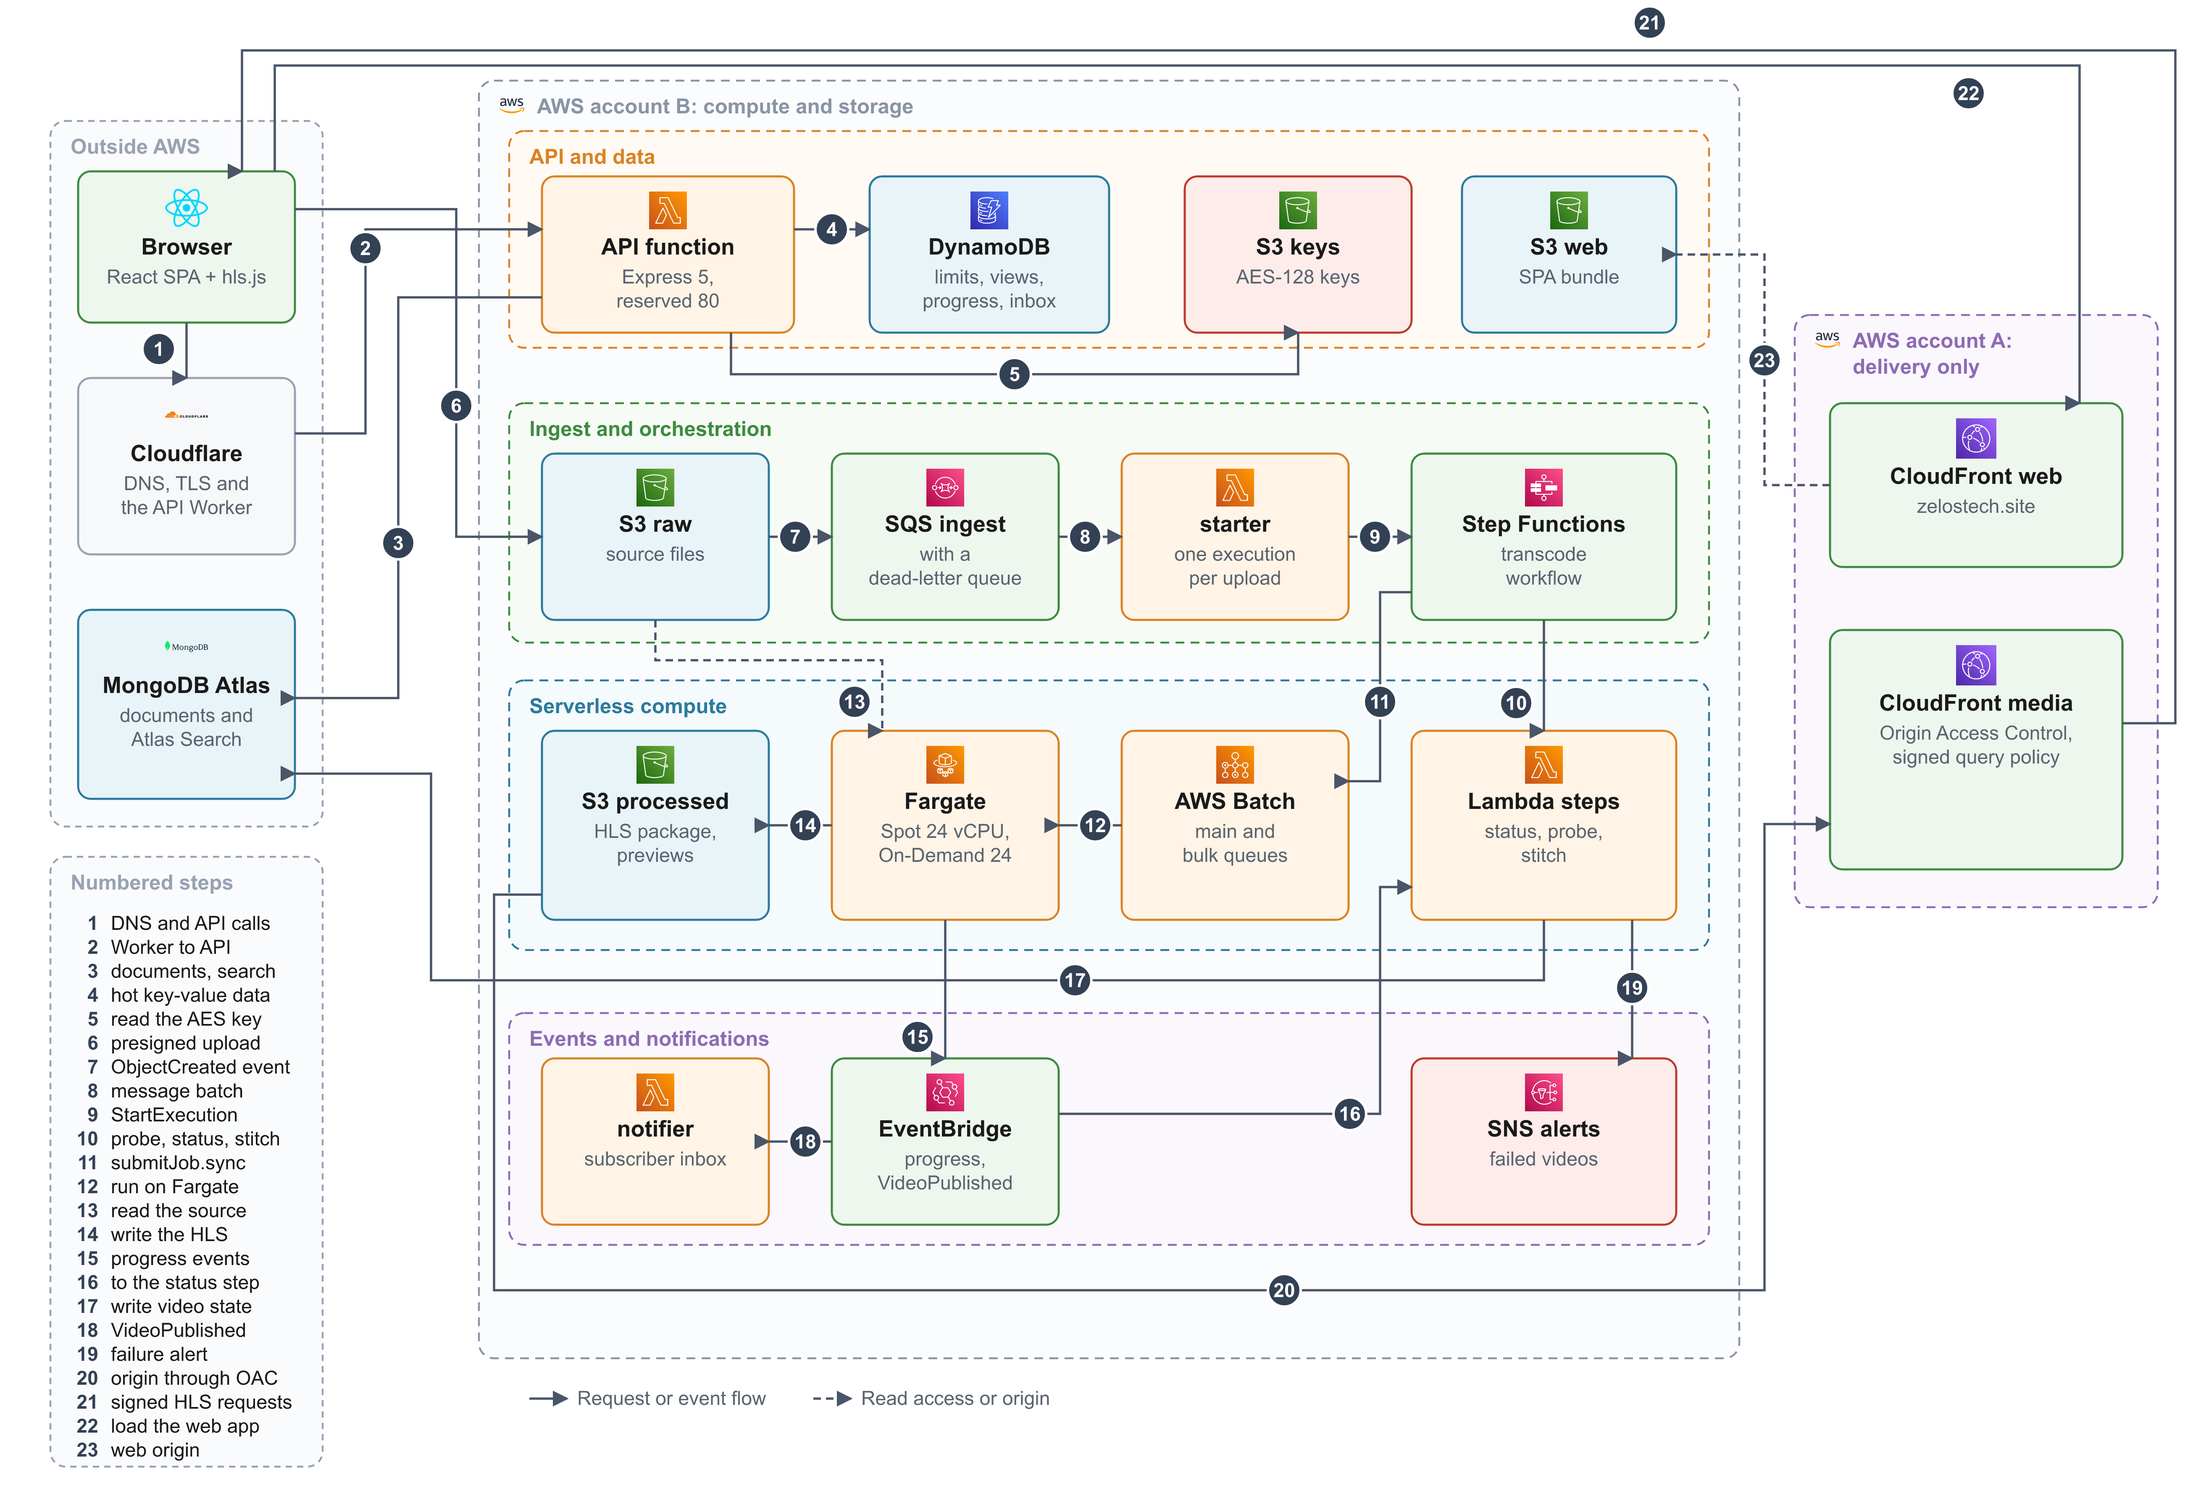
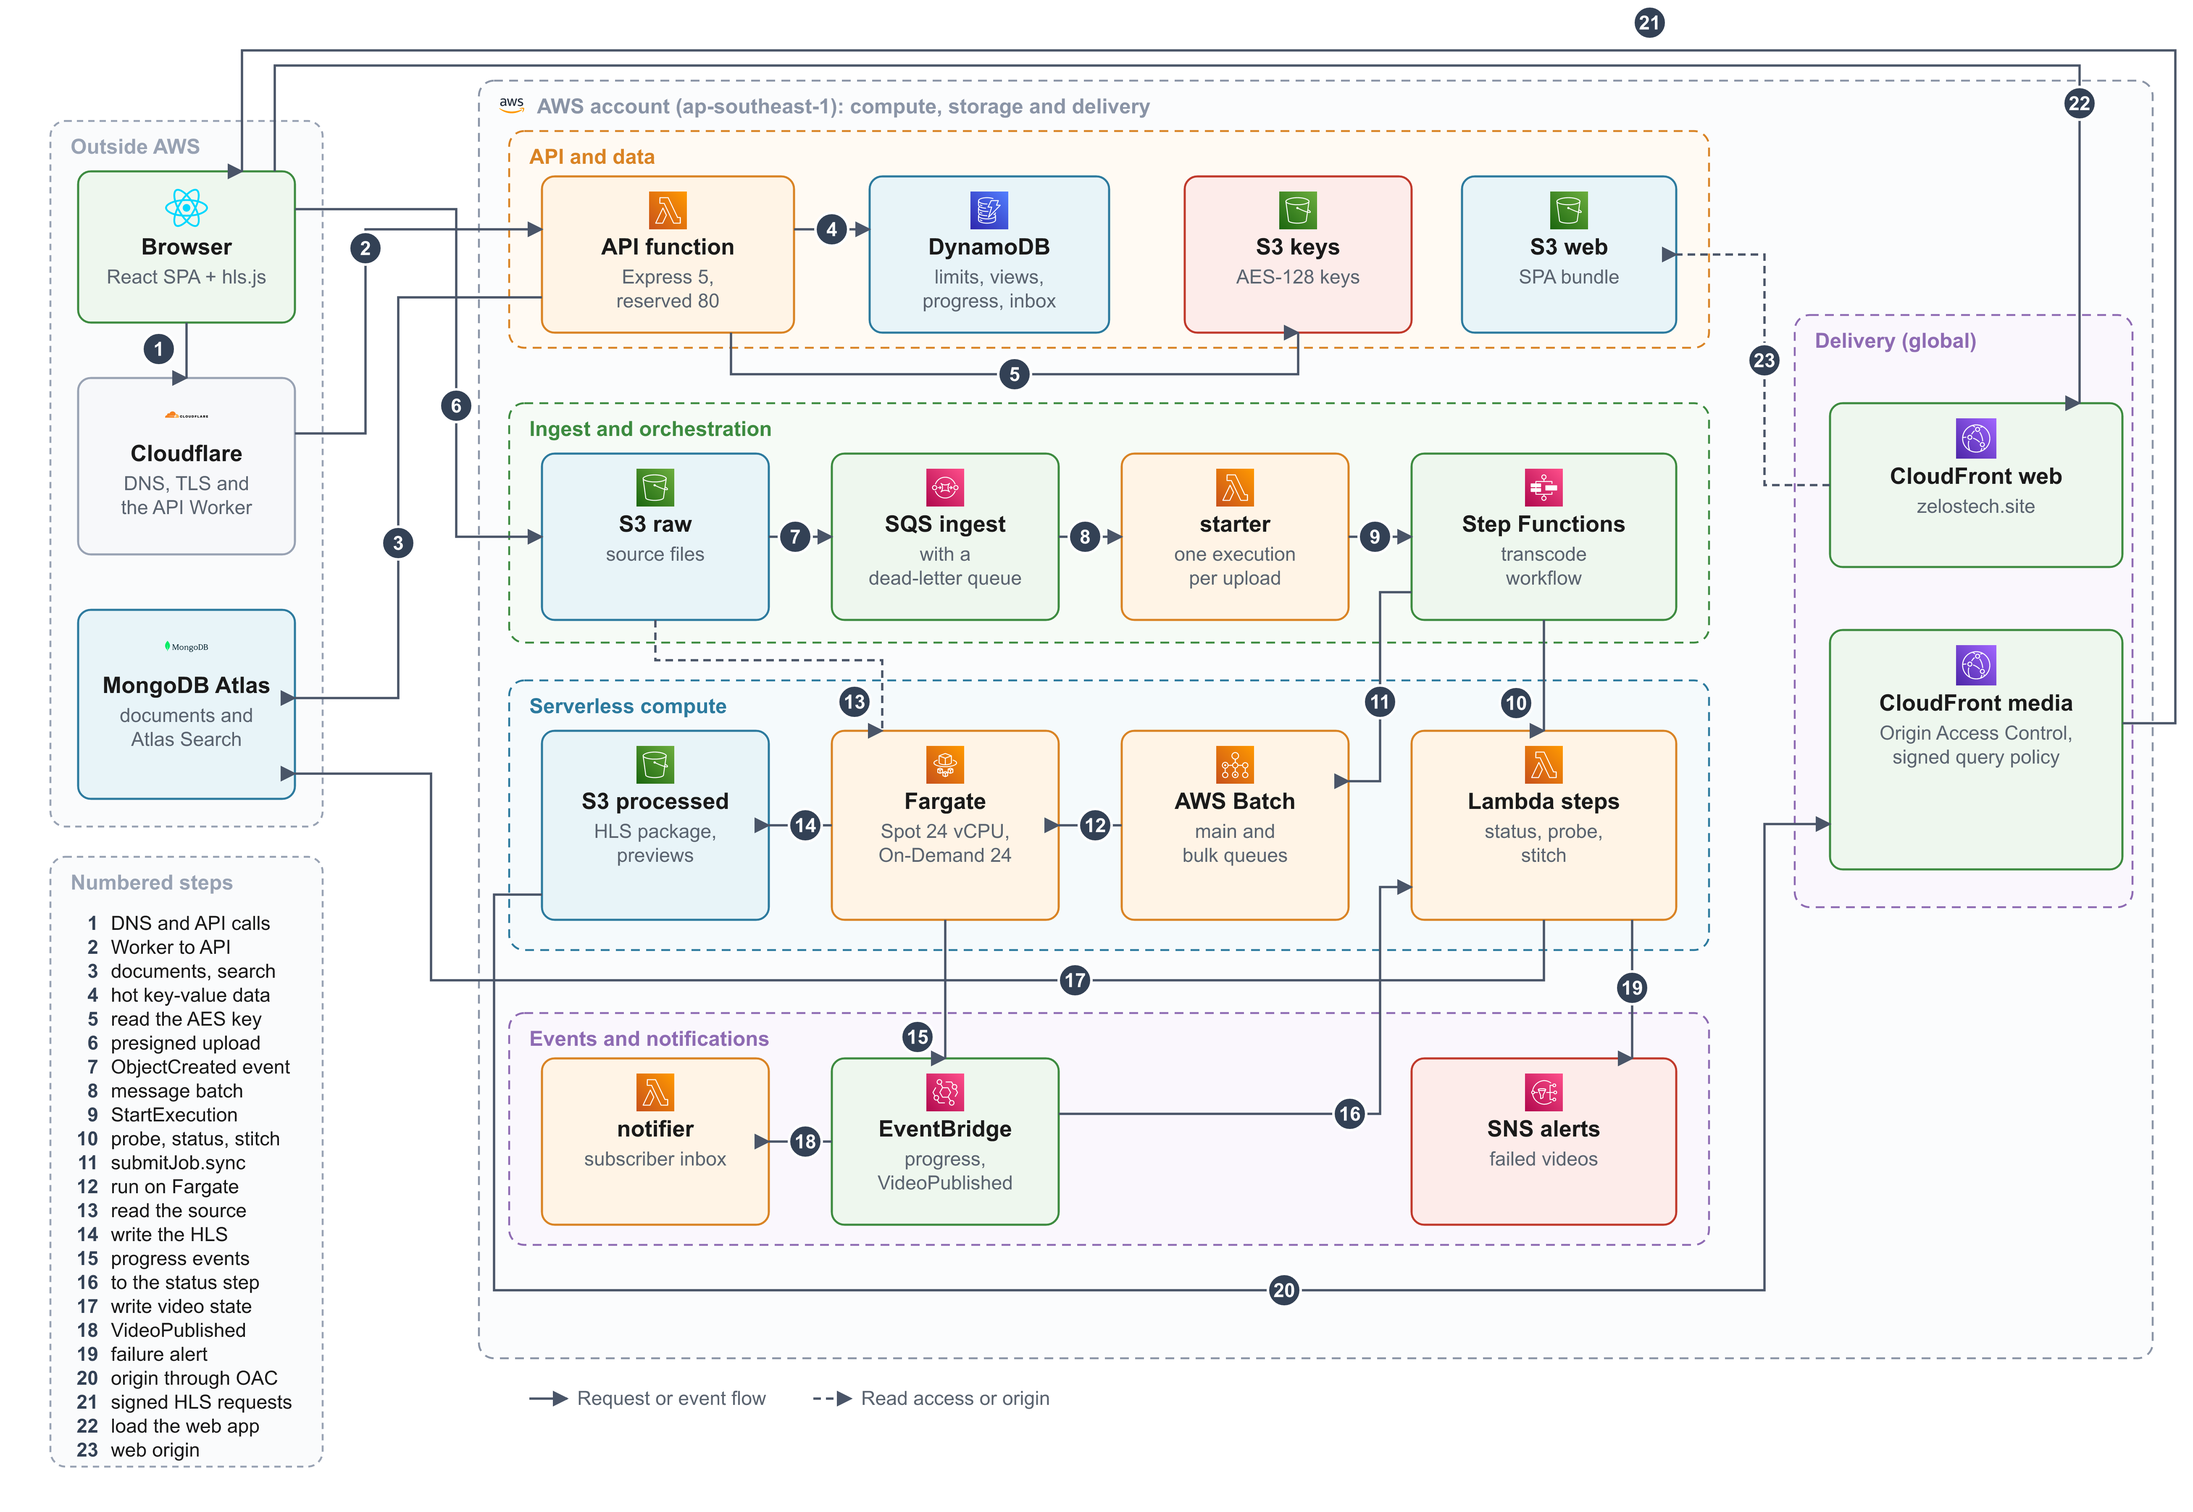
docs(report): describe the single AWS account after the CloudFront move

diff --git a/report/chapters/chap7.tex b/report/chapters/chap7.tex
@@ -24,7 +24,7 @@ of the report that holds the evidence. All five were reached on the production s
 1. Web platform & Users register with a verified e-mail address or Google, upload files of up to 20~GB straight to Amazon S3 and watch every video at up to six quality levels. Each video is public, unlisted, private, protected by a password or reserved for members. Channels, subscriptions, comments, playlists, memberships, a search that ignores diacritics and a staff console complete the platform. & Sections~\ref{sec:interface-design}, \ref{sec:content-protection}, \ref{sec:ui-showcase} \\
 2. Event-driven pipeline & The creation of the source object alone starts a Step Functions execution, named after the video and its upload version so that a duplicate event never starts a second one. The execution ends with an HLS package encrypted with AES-128 and served through CloudFront with a signed policy. Every measured upload that was accepted reached \status{ready}. & Sections~\ref{sec:workflow-design}, \ref{sec:media-design}, \ref{sec:pipeline-evaluation} \\
 3. On-demand containers & Every FFmpeg job runs in a Fargate task that exists only while the job runs; with nothing to process, both compute environments hold zero vCPUs. Spot capacity is used first and On-Demand as overflow, which a burst of 100 uploads used. A four-hour video was ready in 38.3~minutes. & Sections~\ref{sec:compute-design}, \ref{sec:chunked-evaluation}, \ref{sec:burst-evaluation} \\
-4. Infrastructure as Code and CI & Eleven Terraform modules build three environments across two AWS accounts and Cloudflare. Two workflows lint, type-check, test, scan for secrets and vulnerable dependencies, and run FFmpeg in the image on every change; 294 unit tests, 13 image checks and 27 end-to-end tests pass. & Sections~\ref{sec:iac}, \ref{sec:cicd}, \ref{sec:testing} \\
+4. Infrastructure as Code and CI & Eleven Terraform modules build three environments on AWS and Cloudflare. Two workflows lint, type-check, test, scan for secrets and vulnerable dependencies, and run FFmpeg in the image on every change; 294 unit tests, 13 image checks and 27 end-to-end tests pass. & Sections~\ref{sec:iac}, \ref{sec:cicd}, \ref{sec:testing} \\
 5. Empirical evaluation & Playback start, playback under limited bandwidth, declared against delivered bit rate, transcoding time from a 36-second clip to a four-hour video, 100 simultaneous uploads, API load and monthly cost were measured on production. Nine of the ten non-functional requirements are met and the tenth at its median. & Chapter~\ref{chap:evaluation}, Table~\ref{tab:nfr-evidence} \\
 \bottomrule
 \end{tabularx}
@@ -81,10 +81,11 @@ calibration on this platform's content. The console measures the error rates fro
 but too few decisions exist yet for a rate to mean anything, so this report makes no claim about the
 accuracy of the screening.
 
-\textbf{Operation.} The CDN distributions live in a second AWS account, because the main account may
-not create them, which splits the infrastructure across two sets of credentials. Deployment is run by
-the operator rather than by the pipeline, so a change reaches production only as often as someone
-runs the steps.
+\textbf{Operation.} Deployment is run by the operator rather than by the pipeline, so a change
+reaches production only as often as someone runs the steps, and a step left out is noticed only by
+the checks that follow it. The whole platform also runs in a single AWS region. CloudFront serves the
+web application from the edge, but an outage of that region stops uploads, processing and playback
+alike, because every playback grant and key comes from the API in that region.
 
 \section{Future Work}
 \label{sec:future-work}
@@ -111,7 +112,7 @@ the limit of 100 operations per second.
 The fifth is calibrating the screening from evidence. The console already records the reason codes of
 reversed decisions and an unbiased audit sample; after a few hundred decisions, the thresholds and the
 label policy can be adjusted and the effect measured again. Further ahead, a deployment workflow that
-assumes a role in each account would make releases routine, and GPU-backed serverless
+assumes a role in the account would make releases routine, and GPU-backed serverless
 encoding~\cite{gpuserverless2024} and a codec such as HEVC or AV1 next to H.264 would raise throughput
 and reduce bandwidth.
 
@@ -131,7 +132,7 @@ describe them.
 \toprule
 \textbf{MEMBER} & \textbf{STUDENT ID} & \textbf{RESPONSIBILITIES} \\
 \midrule
-Dinh Quoc Cuong (team leader) & 523H0008 & Overall architecture; the transcoding workflow, the container image and the chunked path; the infrastructure in Terraform across both AWS accounts and Cloudflare; the CI pipeline and the security scans; the measurements and the evaluation; Chapters~\ref{chap:design} to \ref{chap:evaluation} of the report \\
+Dinh Quoc Cuong (team leader) & 523H0008 & Overall architecture; the transcoding workflow, the container image and the chunked path; the infrastructure in Terraform on AWS and Cloudflare; the CI pipeline and the security scans; the measurements and the evaluation; Chapters~\ref{chap:design} to \ref{chap:evaluation} of the report \\
 Vo Huynh Minh Duc & 523H0014 & The web application (catalogue, watch page and player, upload, studio, channels, staff console, two languages); the account, community and library parts of the API; testing and the diagrams; Chapters~\ref{chap:introduction} to \ref{chap:requirements} and \ref{chap:conclusion} of the report \\
 \bottomrule
 \end{tabularx}

diff --git a/report/chapters/chap5.tex b/report/chapters/chap5.tex
@@ -31,7 +31,7 @@ a single file with esbuild, so a Lambda package or the container image carries n
 \name{api} & The REST API: Express~5 application, features, services and models & AWS Lambda behind a Function URL \\
 \name{web} & React~19 single-page application built with Vite, the hls.js player, vanilla CSS & S3 and CloudFront \\
 \name{e2e} & Playwright tests of the web application against a running environment & The developer's machine \\
-\name{infra} & Terraform modules and environments, the Cloudflare Worker & AWS accounts B and A, Cloudflare \\
+\name{infra} & Terraform modules and environments, the Cloudflare Worker & AWS and Cloudflare \\
 \bottomrule
 \end{tabularx}
 \end{table}
@@ -160,17 +160,17 @@ Every resource carries the tags \name{Project}, \name{Stack}, \name{Environment}
 \name{batch}    & The Fargate Spot and On-Demand compute environments, the \name{main} and \name{bulk} queues and the four job definitions \\
 \name{workflow} & The state machine, the starter, probe, status and stitch functions, the ffprobe layer and one role per function \\
 \name{app}      & The API function and its Function URL, the notifier, roll-up and reconciler, and the scheduler group for scheduled publishing \\
-\name{cdn}      & The media distribution in account A, its Origin Access Control, signing key group, cache and header policies, certificate and DNS record \\
+\name{cdn}      & The media distribution, its Origin Access Control, signing key group, cache and header policies, certificate and DNS record \\
 \name{web}      & The private bucket and distribution that host the web application, with the rewrite that serves the single-page routes \\
 \bottomrule
 \end{tabularx}
 \end{table}
 
-The split between the two AWS accounts is expressed with provider aliases rather than duplicated
-code. An environment declares one provider for account B, one for account A and one for account A in
-\name{us-east-1}, where CloudFront certificates must be issued, plus the Cloudflare provider for DNS.
-The \name{cdn} and \name{web} modules receive the account A providers, while the buckets they read
-stay in account B. The transcoder image is selected with a variable that holds the commit of the image
+An environment declares three providers: AWS in the Singapore region, which also manages
+CloudFront because CloudFront is a global service, AWS in \name{us-east-1}, the only region where
+CloudFront accepts certificates, and Cloudflare for DNS. The \name{cdn} and \name{web} modules
+receive the first two through aliases, so the account and the regions they use are chosen by the
+environment and not written into the modules. The transcoder image is selected with a variable that holds the commit of the image
 and has no default value, so a production apply cannot fall back to an untested image.
 
 \section{Continuous Integration and Deployment}
@@ -259,16 +259,17 @@ Git on Windows checked the public key out with CRLF line ends, which Terraform s
 \end{tabularx}
 \end{table}
 
-\subsection{CloudFront in a Second Account}
+\subsection{One Policy for the Processed Bucket}
 
-Account B, which holds the compute and storage, is not permitted to create CloudFront distributions.
-The two distributions, their certificates and their signing keys therefore live in account A, while
-every bucket stays in account B. Only the account that owns a bucket can attach its policy, so the
-\name{cdn} and \name{web} modules do not write the policy themselves: they return the policy
-statement that grants read access to their distribution, and the \name{storage} module of account B
-attaches it. The statement names the CloudFront service with a condition on the ARN of the
-distribution, which works whichever account owns the distribution. The processed bucket accepts no
-other reader, so a segment can be fetched only through the signed distribution.
+A bucket has exactly one policy, but two modules need a statement in the policy of the processed
+bucket: \name{storage}, which refuses every request without TLS, and \name{cdn}, which lets its
+distribution read the segments. If both wrote the policy, each apply of one would remove the
+statement of the other, and the bucket would alternate between refusing CloudFront and accepting
+plain HTTP. The \name{cdn} module therefore does not write the policy: it returns the statement that
+grants read access to its distribution, and the \name{storage} module merges it with its own and
+attaches the result. The statement names the CloudFront service with a condition on the ARN of the
+distribution, so the processed bucket accepts no other reader and a segment can be fetched only
+through the signed distribution.
 
 \subsection{Index Creation at Start-up}
 

diff --git a/report/chapters/chap4.tex b/report/chapters/chap4.tex
@@ -10,13 +10,12 @@ API, the interface, security and content moderation.
 \section{High-Level Architecture}
 \label{sec:architecture}
 
-Figure~\ref{fig:architecture} shows the deployed architecture with its real boundaries. Three
+Figure~\ref{fig:architecture} shows the deployed architecture with its real boundaries. Two
 regions appear. Outside AWS are the viewer's browser, Cloudflare, which holds the domain's DNS and
 runs the gateway in front of the API, and MongoDB Atlas, which holds the documents and the search
-indexes. AWS account B holds all compute and storage. AWS account A holds only the two CloudFront
-distributions, because account B is not allowed to create distributions; this split is a constraint
-of the accounts available to the project rather than a design preference, and the design makes it
-harmless by letting CloudFront read the storage of account B through Origin Access Control.
+indexes. One AWS account holds everything else: compute and storage in the Singapore region, and
+the two CloudFront distributions that deliver the site and the media from the edge, which read the
+buckets through Origin Access Control.
 
 % Xoay ngang: đặt vừa bề rộng vùng chữ thì chữ dưới 6,2pt khi in.
 \begin{sidewaysfigure}
@@ -27,7 +26,7 @@ are listed in the key on the left}}
 \label{fig:architecture}
 \end{sidewaysfigure}
 
-Account B is divided into four tiers along the path of a video. The first tier serves the API. A
+The account is divided into four tiers along the path of a video, with delivery beside them. The first tier serves the API. A
 request from the browser reaches the Cloudflare Worker, which forwards it to the function URL of a
 single AWS Lambda function running an Express application and adds a secret header, so that the
 function refuses requests that bypassed the gateway (steps 1 and 2). The function reads and writes

diff --git a/report/chapters/chap6.tex b/report/chapters/chap6.tex
@@ -23,11 +23,11 @@ lower ceilings, and changes are checked there before they reach production (Sect
 \toprule
 \textbf{PART} & \textbf{SERVICE} & \textbf{SETTING} \\
 \midrule
-Web application & S3 bucket behind CloudFront in account A & Hashed assets cached for a year \\
+Web application & S3 bucket behind CloudFront & Hashed assets cached for a year \\
 API & One Lambda function, Node.js 22, 512 MB, behind a Cloudflare Worker & 80 reserved instances \\
 Workflow & S3 events, SQS, the starter, Step Functions and four Lambda steps & One execution per upload version \\
 Compute & AWS Batch on Fargate Spot and Fargate On-Demand, queues \name{main} and \name{bulk} & 24 + 24 vCPUs, six chunk slots \\
-Media delivery & CloudFront in account A, Origin Access Control, signed query policy & Edges of price class 200, which include Asia \\
+Media delivery & CloudFront, Origin Access Control, signed query policy & Edges of price class 200, which include Asia \\
 Documents and search & MongoDB Atlas, free M0 cluster of its own & 500 connections, 100 operations per second \\
 Short-lived data & Five DynamoDB tables on demand & Billed per request \\
 \bottomrule

diff --git a/report/chapters/chap2.tex b/report/chapters/chap2.tex
@@ -210,7 +210,7 @@ Documents & MongoDB Atlas & Relational database & Document-shaped data whose sch
 Search & Atlas Search & OpenSearch cluster & Full-text search inside the same database, no cluster to run \\
 Hot counters & Amazon DynamoDB & MongoDB & Pay per request, built-in expiry; keeps frequent writes off the free database tier \\
 Delivery & Amazon CloudFront & Serving from S3 & Edge caching and signed access to a private bucket \\
-Infrastructure & Terraform & AWS CloudFormation & Modules with explicit inputs and a plan step that shows each change; spans two AWS accounts and Cloudflare \\
+Infrastructure & Terraform & AWS CloudFormation & Modules with explicit inputs and a plan step that shows each change; covers both AWS and Cloudflare \\
 Checks & GitHub Actions & Separate CI server & Source already on GitHub \\
 \bottomrule
 \end{tabularx}
